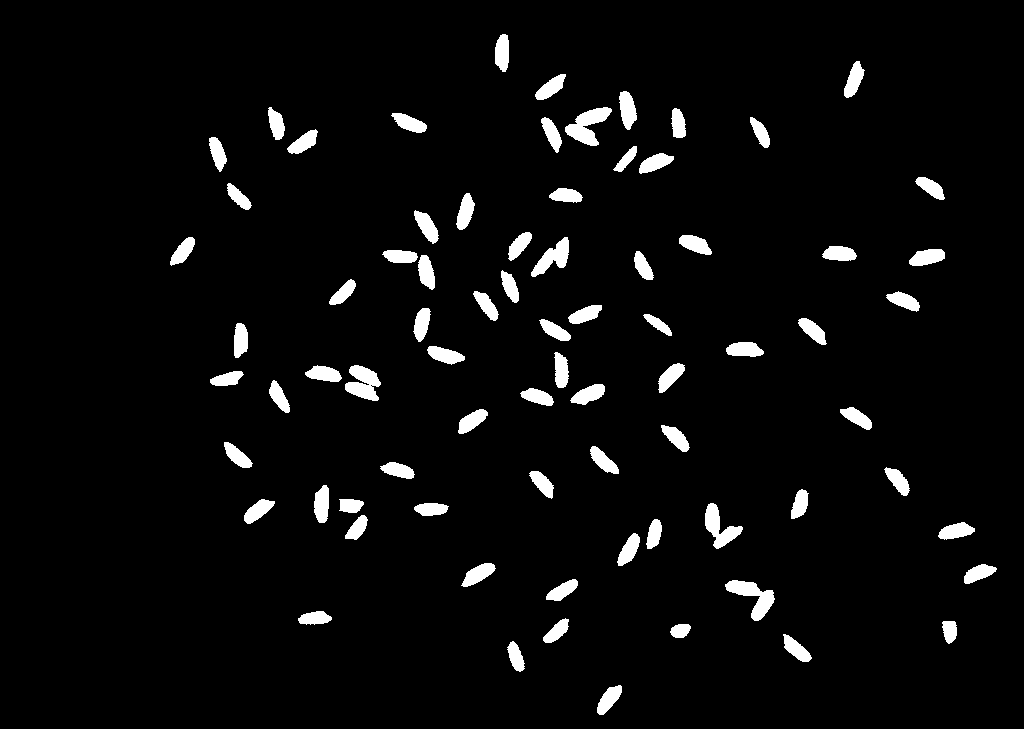
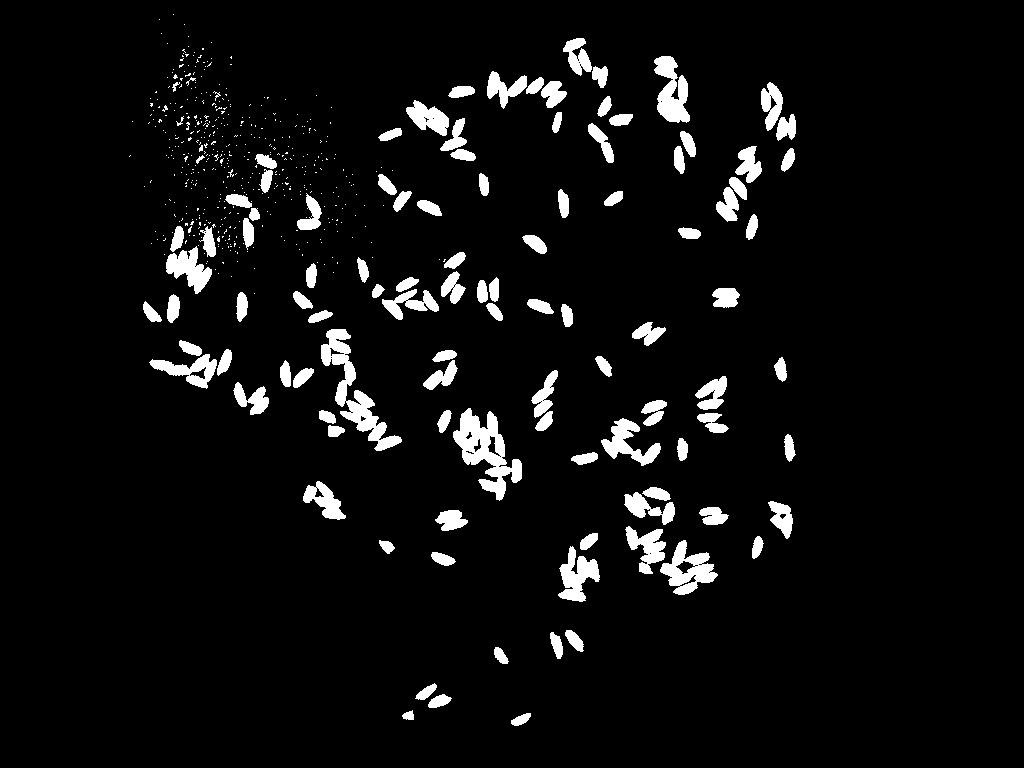
inicio

diff --git a/arroz_V2/main.py b/arroz_V2/main.py
@@ -12,7 +12,7 @@ import cv2
 
 #===============================================================================
 
-INPUT_IMAGE =  '82.bmp'
+INPUT_IMAGE =  '60.bmp'
 #INPUT_IMAGE = 'documento-3mp.bmp'
 
 # TODO: ajuste estes parâmetros!
@@ -79,17 +79,16 @@ respectivamente: topo, esquerda, baixo e direita.'''
                     
                     y,x = pilha.pop()
                    
-                    #                 2       1       2       1
                     direcao = [(-1,0),(1,0),(0,-1),(0,1)]
                     for dx,dy in direcao:
-                        if ((row + dy >= 0) and (col + dx >= 0) and (row + dy < rows)  and (col + dx < cols) ): 
+                        if ((y + dy >= 0) and (x + dx >= 0) and (y + dy < rows)  and (x + dx < cols) ): 
                             if img[y+dy,x+dx] == 1:
                                 img[y+dy,x+dx] = label
                                 n_pixel += 1
-                                retangulo['T'] = min(retangulo['T'],row+dy)
-                                retangulo['L'] = min(retangulo['L'],col+dx)
-                                retangulo['R'] = max(retangulo['R'],col+dx)
-                                retangulo['B'] = max(retangulo['B'],row+dy)
+                                retangulo['T'] = min(retangulo['T'],y+dy)
+                                retangulo['L'] = min(retangulo['L'],x+dx)
+                                retangulo['R'] = max(retangulo['R'],x+dx)
+                                retangulo['B'] = max(retangulo['B'],y+dy)
                                 pilha.append((y+dy,x+dx))
                 
                 if(n_pixel > n_pixels_min and (retangulo['R'] -retangulo ['L']) > largura_min and (retangulo['B']-retangulo['T']) > altura_min):
@@ -126,20 +125,20 @@ def main ():
         img = 1 - img
 
     rows,cols = np.shape(img)
-    #resized = cv2.resize(img, (cols*30, rows*30), 0, 0, interpolation = cv2.INTER_NEAREST)
-    #resized = cv2.resize(resized, (cols, rows), 0, 0, interpolation = cv2.INTER_LINEAR)
-    #dx = cv2.Sobel(resized,cv2.CV_32F,1,0)
-    #dy = cv2.Sobel(resized,cv2.CV_32F,0,1)
-    #mag = cv2.magnitude(dx,dy)
+    resized = cv2.resize(img, (cols*30, rows*30), 0, 0, interpolation = cv2.INTER_NEAREST)
+    resized = cv2.resize(resized, (cols, rows), 0, 0, interpolation = cv2.INTER_LINEAR)
+    dx = cv2.Sobel(resized,cv2.CV_32F,1,0)
+    dy = cv2.Sobel(resized,cv2.CV_32F,0,1)
+    mag = cv2.magnitude(dx,dy)
     #minimo = np.min(mag)
     #maximo = np.max(mag)
     #print(minimo,maximo)
-    #mag =cv2.normalize(mag,None,alpha=0,beta=1,norm_type=cv2.NORM_MINMAX)
-    #mag = binariza(mag,THRESHOLD2)
-    #mag = cv2.dilate(mag,(3,3),iterations=1)
+    mag =cv2.normalize(mag,None,alpha=0,beta=1,norm_type=cv2.NORM_MINMAX)
+    mag = binariza(mag,THRESHOLD2)
+    mag = cv2.dilate(mag,(3,3),iterations=1)
 
     
-    #img2 = img - mag
+    img2 = img - mag
     
     img2 = binariza (img, THRESHOLD)
     
